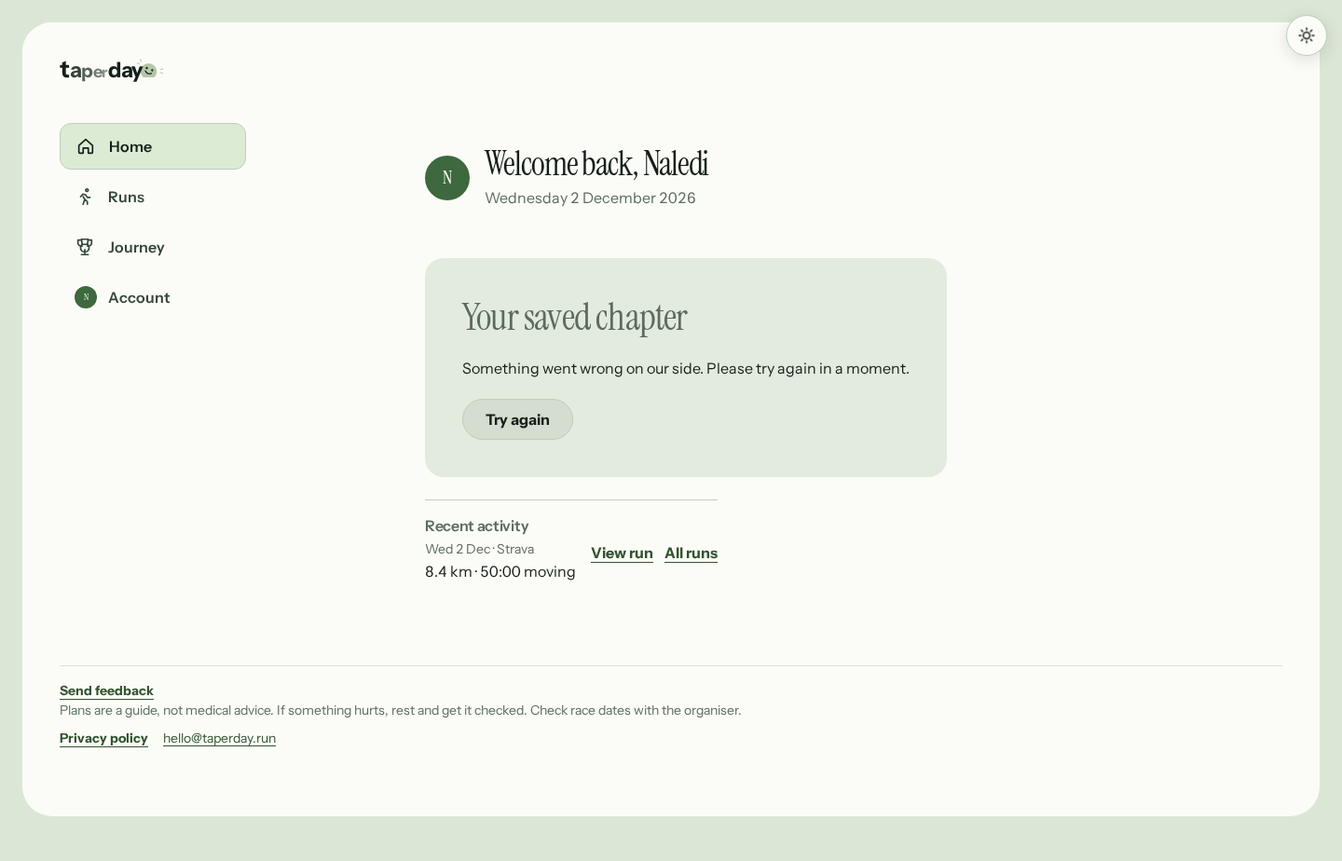
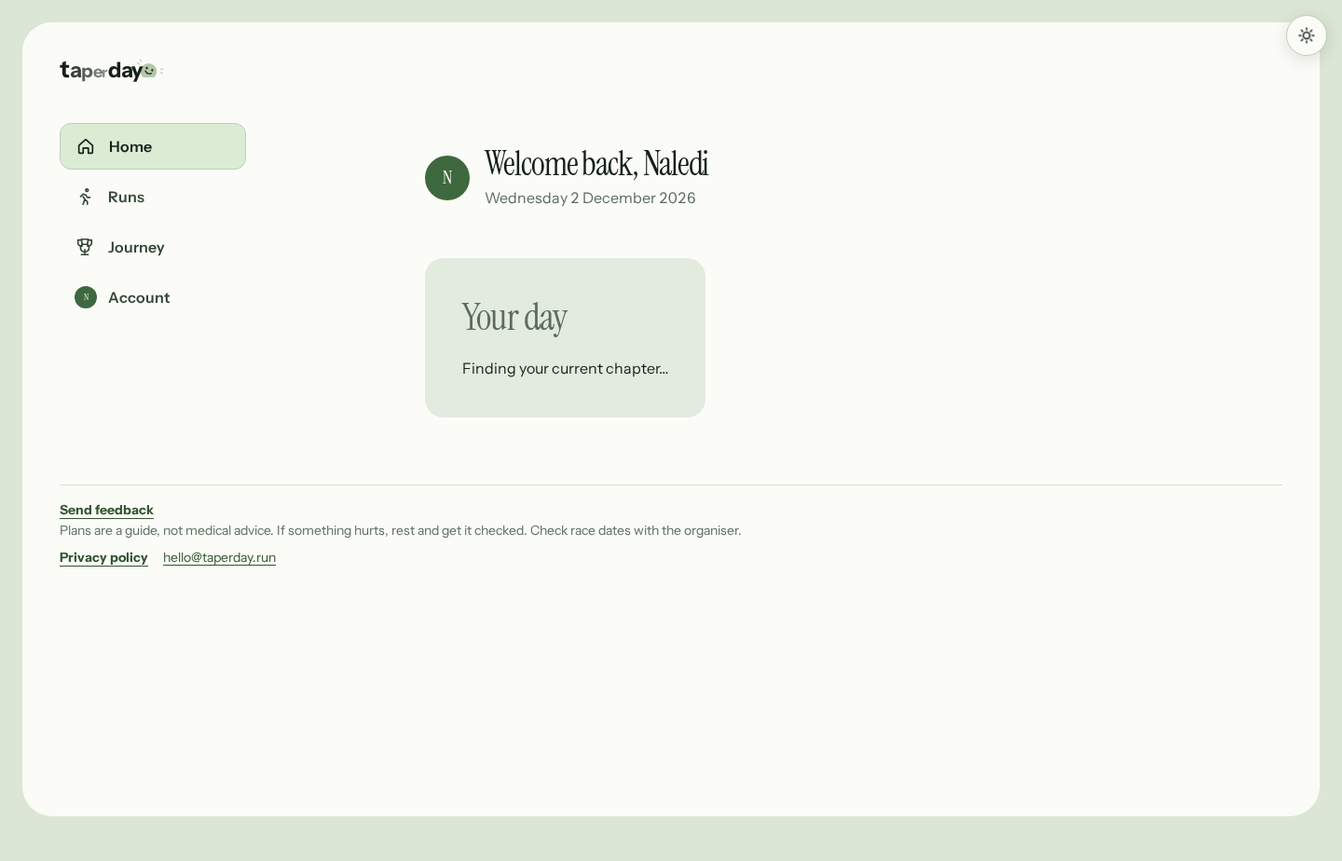
fix(ux): preserve plan lookup state and finish browser regression coverage

Changed region(s): [[0.3125, 0.2727, 0.7188, 0.5758], [0.0312, 0.5758, 0.5312, 0.6667], [0.0312, 0.7879, 0.5312, 0.8788]]

diff --git a/client/e2e/simplicity.spec.ts b/client/e2e/simplicity.spec.ts
@@ -1,4 +1,4 @@
-import AxeBuilder from '@axe-core/playwright'
+import { accessibility } from './accessibility'
 import { expect, test, type Page } from '@playwright/test'
 import { readFileSync, mkdirSync } from 'node:fs'
 import { fileURLToPath } from 'node:url'
@@ -46,7 +46,7 @@ async function mock(page: Page, scene: typeof scenes[number]) {
   return { writes, run }
 }
 
-for (const mode of ['light', 'dark'] as const) test(`Run detail hierarchy: ${mode} @phone`, async ({ page }) => {
+for (const mode of ['light', 'dark'] as const) test(`Run detail hierarchy: ${mode} @phone`, async ({ page }, info) => {
   await mock(page, 'synced')
   await page.goto(fixture.replace('?view=home', '?view=runs&run=simplicity-run'))
   await page.evaluate(value => { document.documentElement.dataset.theme = value }, mode)
@@ -54,14 +54,17 @@ for (const mode of ['light', 'dark'] as const) test(`Run detail hierarchy: ${mod
   await page.evaluate(() => document.fonts.ready)
   for (const width of [375, 1440]) {
     await page.setViewportSize({ width, height: 900 })
+    await page.evaluate(async () => { await Promise.all(document.getAnimations().filter(animation => animation instanceof CSSTransition).map(animation => animation.finished.catch(() => undefined))) })
     if (!baseline) {
-      const audit = await new AxeBuilder({ page }).withTags(['wcag2a', 'wcag2aa', 'wcag21a', 'wcag21aa', 'wcag22aa']).analyze()
+      const audit = await accessibility(page).analyze()
       expect(audit.violations.map(value => ({ id: value.id, targets: value.nodes.map(node => node.target) }))).toEqual([])
       expect(await page.evaluate(() => document.documentElement.scrollWidth - innerWidth)).toBeLessThanOrEqual(1)
       await expect(page.getByRole('heading', { name: 'Plan vs actual' })).toHaveCount(0)
     }
-    mkdirSync(root, { recursive: true })
-    await page.screenshot({ path: `${root}run-detail-${width}-${mode}.png`, fullPage: true, animations: 'disabled' })
+    if (info.project.name === 'desktop') {
+      mkdirSync(root, { recursive: true })
+      await page.screenshot({ path: `${root}run-detail-${width}-${mode}.png`, fullPage: true, animations: 'disabled' })
+    }
   }
 })
 
@@ -120,6 +123,24 @@ test('a missing recording ID is unavailable without substituting a recent record
   await expect(page.getByRole('button', { name: 'Open run details', exact: true })).toBeVisible()
 })
 
+for (const entry of ['Home link', 'fresh device'] as const) test(`failed current-plan lookup stays unknown and retries from ${entry} @phone`, async ({ page }) => {
+  await mock(page, 'training')
+  let failed = true
+  await page.route('**/api/v1/me/plans', async route => {
+    if (failed) await route.fulfill({ status: 503, json: { title: 'Temporarily unavailable' } })
+    else await route.fallback()
+  })
+  await page.goto(entry === 'Home link' ? fixture : fixture.replace('?view=home', ''))
+  await expect(page.getByRole('button', { name: 'Retry current plan', exact: true })).toBeVisible()
+  await expect(page.getByText('Finding your current chapter…', { exact: true })).toHaveCount(0)
+  await expect(page.getByRole('button', { name: 'Choose my next challenge', exact: true })).toHaveCount(0)
+  await expect(page.getByRole('navigation', { name: 'Main', exact: true }).getByRole('button', { name: 'Runs', exact: true })).toBeVisible()
+  failed = false
+  await page.getByRole('button', { name: 'Retry current plan', exact: true }).click()
+  await expect(page.getByRole('button', { name: "Open today's workout", exact: true })).toBeVisible()
+  await expect(page.getByRole('button', { name: 'Retry current plan', exact: true })).toHaveCount(0)
+})
+
 for (const mode of ['light', 'dark'] as const) {
   test(`Home remains usable with reduced motion, wide screens and 200% text: ${mode} @phone`, async ({ page }) => {
     await mock(page, 'training')
@@ -141,7 +162,7 @@ for (const mode of ['light', 'dark'] as const) {
   })
 }
 for (const scene of scenes) for (const mode of ['light', 'dark'] as const) {
-  test(`simple Home: ${scene}, ${mode} @phone`, async ({ page }) => {
+  test(`simple Home: ${scene}, ${mode} @phone`, async ({ page }, info) => {
     const state = await mock(page, scene)
     await page.addInitScript(value => { localStorage.setItem('taperday:theme', value); document.documentElement.dataset.theme = value }, mode)
     await page.goto(fixture)
@@ -166,14 +187,20 @@ for (const scene of scenes) for (const mode of ['light', 'dark'] as const) {
     }
     for (const width of [375, 1440]) {
       await page.setViewportSize({ width, height: 900 })
+      // Start each full audit at its final width in a fresh document; retain every WCAG rule.
+      await page.reload()
+      await expect(page.getByRole('heading', { name: 'Welcome back, Naledi' })).toBeVisible()
+      await page.evaluate(() => document.fonts.ready)
       await page.evaluate(async () => { await Promise.all(document.getAnimations().filter(animation => animation instanceof CSSTransition).map(animation => animation.finished.catch(() => undefined))); if (document.activeElement instanceof HTMLElement) document.activeElement.blur(); scrollTo(0, 0) })
       if (!baseline) {
         expect(await page.evaluate(() => document.documentElement.scrollWidth - innerWidth)).toBeLessThanOrEqual(1)
-        const audit = await new AxeBuilder({ page }).withTags(['wcag2a', 'wcag2aa', 'wcag21a', 'wcag21aa', 'wcag22aa']).analyze()
+        const audit = await accessibility(page).analyze()
         expect(audit.violations.map(value => ({ id: value.id, targets: value.nodes.map(node => node.target) }))).toEqual([])
       }
-      mkdirSync(root, { recursive: true })
-      await page.screenshot({ path: `${root}${scene}-${width}-${mode}.png`, fullPage: true })
+      if (info.project.name === 'desktop') {
+        mkdirSync(root, { recursive: true })
+        await page.screenshot({ path: `${root}${scene}-${width}-${mode}.png`, fullPage: true })
+      }
     }
     if (!baseline && scene === 'synced') {
       await page.getByRole('button', { name: 'Open run details', exact: true }).click()

diff --git a/client/src/features/runner-home/Home.tsx b/client/src/features/runner-home/Home.tsx
@@ -29,6 +29,7 @@ export interface HomeProps {
   onBuildPlan: () => void; onOpenBeginner?: () => void; onOpenRun: (id: string) => void
   onOpenRuns: () => void; onOpenAccount: () => void; initialPlan?: HomePlan | null
   onPlanLoaded?: (plan: HomePlan) => void; photo?: string | null; accountLoading?: boolean
+  currentPlanFailed?: boolean; onRetryCurrentPlan?: () => void
 }
 function detailFromUrl() {
   const params = new URLSearchParams(window.location.search)
@@ -74,12 +75,13 @@ export function Home(props: HomeProps) {
   const weekRuns = week?.sessions.filter(session => session.type !== 'Strength' && session.type !== 'Race') ?? []
   const doneRuns = weekRuns.filter(session => { const own = coach?.get(session); return own ? own.status !== 'Skipped' : syncedFor(session, coach)?.state === 'Completed' || !!recordingForToday(session, coach, available) }).length
   return <div className={`home home-simple${afterTraining ? ' is-after-training' : ''}`}>
-    <div hidden={details}>
+    {!details && <div>
       <header className="home-hello"><Avatar name={runner.displayName} photo={photo} size={48} /><div>
         <h1 ref={heading} tabIndex={-1} className="home-title">Welcome back, {runner.displayName}</h1><p className="home-lede">{formatDate(today, 'long')}</p>
       </div></header>
       <div className="home-panel home-focus" id="home-panel-today">
-        {!accountLoading && pending && <section className="panel home-card" role="status" aria-label="Loading your current chapter"><h2 className="home-card-heading">Your day</h2><p>Finding your current chapter…</p></section>}
+        {props.currentPlanFailed && <section className="home-data-state" role="alert"><h2 className="home-card-heading">Your current plan</h2><p>We couldn’t check your saved plan. Try again to pick up where you left off.</p><button type="button" className="button button-quiet" onClick={props.onRetryCurrentPlan}>Retry current plan</button></section>}
+        {!props.currentPlanFailed && !accountLoading && pending && <section className="panel home-card" role="status" aria-label="Loading your current chapter"><h2 className="home-card-heading">Your day</h2><p>Finding your current chapter…</p></section>}
         {!pending && journey.state.kind === 'error' && !current && <section className="panel home-card" role="alert"><h2 className="home-card-heading">Your saved chapter</h2><p>{journey.state.message}</p><button type="button" className="button" onClick={journey.actions.refresh}>Try again</button></section>}
         {current && (checkIns.failed || checkIns.offline || !!checkIns.pending?.length) && <CheckInLoadState {...checkIns} />}
         {current && failed && <div className="home-data-state" role="alert"><p>{plan ? 'Your plan couldn’t refresh. Showing the last plan loaded on this device.' : 'Your plan couldn’t load. You can try again.'}</p><button type="button" className="button" onClick={retry}>Retry plan</button></div>}
@@ -94,7 +96,7 @@ export function Home(props: HomeProps) {
         {!pending && <LatestRun runs={available} strava={strava} units={units} today={today} onOpenRun={onOpenRun} onOpenRuns={onOpenRuns} />}
         {!pending && strava?.status === 'NeedsReconnect' && <p className="field-help home-connection-note">Your Strava connection needs attention. <button type="button" className="link-button" onClick={props.onOpenAccount}>Reconnect Strava</button></p>}
       </div>
-    </div>
+    </div>}
     {visitedDetails && <div hidden={!details}><Suspense fallback={<p role="status">Loading your running details…</p>}><RunningDetails {...props} runs={available} onBack={closeDetails} backLabel={new URLSearchParams(window.location.search).get('from') === 'runs' ? '← Back to Runs' : '← Back to Home'} /></Suspense></div>}
   </div>
 }

diff --git a/client/src/features/runner-home/TodayFocus.tsx b/client/src/features/runner-home/TodayFocus.tsx
@@ -29,7 +29,7 @@ export function TodayFocus({ plan, failed, today, units, runs, coach, onOpenPlan
     {!plan ? failed ? <p>Today’s session will appear when your plan loads.</p> : <div className="skeleton-stack" role="status" aria-label="Loading today's session"><span className="skeleton-line skeleton-line-wide" /><span className="skeleton-line" /></div>
       : progress?.kind === 'before' ? <p>Your plan starts {formatDate(plan.startDate, 'long')}. Easy running until then.</p>
       : progress?.kind === 'race' ? <p className="home-today-title">{plan.race.name}. Start easy, trust your training and enjoy it.</p>
-      : own && own.status !== 'Skipped' ? <><RunResult entry={own} runs={runs} units={units} compact /><p className="field-help">Planned: {session!.distanceKm > 0 ? formatDistance(session!.distanceKm, units) : session!.title}</p></>
+      : own && own.status !== 'Skipped' ? <><RunResult entry={own} runs={runs} units={units} compact /><p className="home-recorded-source">{own.distanceKm != null || own.duration ? 'Manually logged' : recording ? `${recording.source.kind === 'Strava' ? 'Strava' : 'Upload'} · moving time` : own.activityId ? 'Linked recording is no longer available.' : 'Confirmed without recorded measurements'}</p></>
       : recording ? <><p className="home-recorded-source">{recording.source.kind === 'Strava' ? 'Imported from Strava' : 'From your upload'}</p><p className="field-help">{formatDuration(recording.movingSeconds)} moving{recording.distanceKm > 0 && recording.movingSeconds > 0 ? ` · ${formatPace(recording.movingSeconds / recording.distanceKm, units)}` : ''}</p></>
       : day?.runs.length ? day.runs.map((value, index) => {
         const pace = plan.paces.find(pace => pace.zone === value.zone)
@@ -37,6 +37,7 @@ export function TodayFocus({ plan, failed, today, units, runs, coach, onOpenPlan
         return <div key={`${value.date}|${value.type}`}><p className="home-today-title">{index > 0 && value.title}{own && <span className={own.status === 'Done' ? 'chip home-done-chip' : 'chip home-status-chip'}>{own.status === 'Done' ? 'Done' : own.status === 'Skipped' ? 'Skipped' : 'Logged'}</span>}</p>
           <dl className="home-workout-facts">{value.distanceKm > 0 && <div><dt>Distance</dt><dd className="mono">{formatDistance(value.distanceKm, units)}</dd></div>}{pace && <div><dt>Target pace</dt><dd className="mono">{formatPaceRange(pace.fastestSecondsPerKm, pace.slowestSecondsPerKm, units)}</dd></div>}</dl><p className="field-help">{value.detail}</p></div>
       }) : <><p>{day?.strength.length ? 'Your running takes a break. Your strength session is below.' : 'Legs up. Rest is when the training turns into fitness.'}</p>{day?.next && <p className="field-help">Next: {day.next.title}, {formatDate(day.next.date)}</p>}</>}
+    {session && (recording || own && own.status !== 'Skipped') && <p className="field-help">Planned: {session.title}{session.distanceKm > 0 ? ` · ${formatDistance(session.distanceKm, units)}` : ''}</p>}
     {day?.strength.map(value => <section key={value.type} className="home-today-strength" aria-label="Strength session"><p className="home-today-title">{value.title}</p><p className="field-help">{value.exercises.length} exercises · Open your plan for set tracking.</p></section>)}
     {progress && progress.daysToGo > 0 && progress.daysToGo <= 7 && <p className="field-help">{progress.daysToGo} days to {plan!.race.name}</p>}
     {progress && progress.daysToGo > 0 && progress.daysToGo <= 7 && onOpenRacePrep && <button type="button" className="link-button" onClick={onOpenRacePrep}>Race-day checklist and pacing</button>}

diff --git a/client/src/features/account/useCurrentPlan.test.ts b/client/src/features/account/useCurrentPlan.test.ts
@@ -1,6 +1,11 @@
-import { describe, expect, it } from 'vitest'
+import { createElement, type PropsWithChildren } from 'react'
+import { act, renderHook, waitFor } from '@testing-library/react'
+import { http, HttpResponse } from 'msw'
+import { beforeEach, describe, expect, it } from 'vitest'
+import { accountsOff, AuthContext } from '../../app/auth-context'
+import { planFixture, server } from '../../test/server'
 import { toRequest, type PlanInputs } from '../../lib/plan-url'
-import { samePlan } from './useCurrentPlan'
+import { samePlan, useCurrentPlan } from './useCurrentPlan'
 
 const inputs: PlanInputs = {
   raceName: 'Parkrun PB',
@@ -34,5 +39,38 @@ describe('the same plan', () => {
     expect(samePlan(toRequest({ ...inputs, raceName: undefined }), toRequest({ ...inputs, raceName: 'Your race' }))).toBe(true)
     const catalogue = toRequest({ ...inputs, raceSlug: 'comrades-2027' })
     expect(samePlan(catalogue, { ...catalogue, raceName: 'Comrades Marathon', raceDate: '2027-06-13', distanceKm: 90 })).toBe(true)
+  })
+})
+
+const auth = { ...accountsOff, enabled: true, account: { name: 'Synthetic runner', email: 'current-plan@example.test' }, getToken: async () => 'test-token' }
+const wrapper = ({ children }: PropsWithChildren) => createElement(AuthContext.Provider, { value: auth }, children)
+
+describe('current plan lookup failures', () => {
+  beforeEach(() => server.use(http.get('*/api/v1/me/plans/plan-1', () => HttpResponse.json({ id: 'plan-1', name: 'Parkrun PB', status: 'Active', inputs: toRequest(inputs), plan: planFixture }))))
+  it('keeps a failed initial lookup unknown and recovers the saved plan on retry', async () => {
+    let failed = true
+    server.use(http.get('*/api/v1/me/plans', () => failed
+      ? HttpResponse.json({ title: 'Temporarily unavailable' }, { status: 503 })
+      : HttpResponse.json([{ id: 'plan-1', status: 'Active', raceDate: inputs.raceDate }])))
+    const { result } = renderHook(() => useCurrentPlan(true, '2026-10-20'), { wrapper })
+    await waitFor(() => expect(result.current.failed).toBe(true))
+    expect(result.current.current).toBeUndefined()
+    failed = false
+    await act(() => result.current.refresh())
+    expect(result.current.current?.id).toBe('plan-1')
+    expect(result.current.failed).toBe(false)
+  })
+
+  it('retains a known plan when a later lookup fails', async () => {
+    let failed = false
+    server.use(http.get('*/api/v1/me/plans', () => failed
+      ? HttpResponse.json({ title: 'Temporarily unavailable' }, { status: 503 })
+      : HttpResponse.json([{ id: 'plan-1', status: 'Active', raceDate: inputs.raceDate }])))
+    const { result } = renderHook(() => useCurrentPlan(true, '2026-10-20'), { wrapper })
+    await waitFor(() => expect(result.current.current?.id).toBe('plan-1'))
+    failed = true
+    await act(() => result.current.refresh())
+    expect(result.current.failed).toBe(true)
+    expect(result.current.current?.id).toBe('plan-1')
   })
 })

diff --git a/client/src/features/account/useCurrentPlan.ts b/client/src/features/account/useCurrentPlan.ts
@@ -57,12 +57,16 @@ async function fetchCurrent(getToken: () => Promise<string | null>, today: strin
 export function useCurrentPlan(enabled: boolean, today = localToday()) {
   const auth = useAuth()
   const [loaded, setCurrent] = useState<{ owner: typeof auth; value: CurrentPlan | null | undefined }>({ owner: auth, value: undefined })
+  const [failure, setFailure] = useState<typeof auth | null>(null)
   const current = loaded.owner === auth ? loaded.value : undefined
   const sequence = useRef(0)
 
   const load = useCallback(() => {
     const mine = ++sequence.current
-    return fetchCurrent(auth.getToken, today).then(value => { if (mine === sequence.current) setCurrent({ owner: auth, value }) })
+    return fetchCurrent(auth.getToken, today).then(value => {
+      if (value === undefined) throw new Error('Your current plan could not be checked. Try again.')
+      if (mine === sequence.current) { setCurrent({ owner: auth, value }); setFailure(null) }
+    }).catch(error => { if (mine === sequence.current) setFailure(auth); throw error })
   }, [auth, today])
 
   useEffect(() => {
@@ -70,10 +74,13 @@ export function useCurrentPlan(enabled: boolean, today = localToday()) {
     let cancelled = false
     const requests = sequence
     const mine = ++sequence.current
-    // If it can't load, the app carries on without it: the builder shows, and saving still asks the API, which knows.
+    // A failed lookup is unknown, never evidence that the runner has no saved plan.
     fetchCurrent(auth.getToken, today)
-      .then((found) => { if (!cancelled && mine === sequence.current) setCurrent({ owner: auth, value: found ?? null }) })
-      .catch(() => { if (!cancelled && mine === sequence.current) setCurrent({ owner: auth, value: null }) })
+      .then((found) => {
+        if (found === undefined) throw new Error('Your current plan could not be checked. Try again.')
+        if (!cancelled && mine === sequence.current) { setCurrent({ owner: auth, value: found }); setFailure(null) }
+      })
+      .catch(() => { if (!cancelled && mine === sequence.current) setFailure(auth) })
     return () => {
       cancelled = true
       requests.current++
@@ -86,5 +93,5 @@ export function useCurrentPlan(enabled: boolean, today = localToday()) {
     return () => window.removeEventListener(JOURNEY_CHANGED, refresh)
   }, [enabled, load])
 
-  return { current: enabled ? currentTraining(current, today) : undefined, remember: (saved: CurrentPlan) => { sequence.current++; setCurrent({ owner: auth, value: saved }) }, refresh: () => load().catch(() => undefined) }
+  return { current: enabled ? currentTraining(current, today) : undefined, failed: enabled && failure === auth, remember: (saved: CurrentPlan) => { sequence.current++; setCurrent({ owner: auth, value: saved }); setFailure(null) }, refresh: () => load().catch(() => undefined) }
 }

diff --git a/client/src/app/App.tsx b/client/src/app/App.tsx
@@ -417,7 +417,7 @@ export function App() {
   // Completing Microsoft sign-in must not strand returning runners on the sign-in URL.
   // Wait for the saved-plan lookup; only then decide between their plan and Home.
   useEffect(() => {
-    if (view !== 'sign-in' || runner.state.kind !== 'ready' || latestPlan === undefined) return
+    if (view !== 'sign-in' || runner.state.kind !== 'ready' || latestPlan === undefined && !currentPlan.failed) return
     if (latestPlan) {
       landing.current = false
       setLanded(true)
@@ -427,9 +427,9 @@ export function App() {
       setView('home')
       window.history.replaceState(null, '', '?view=home')
     }
-  }, [view, runner.state.kind, latestPlan])
+  }, [view, runner.state.kind, latestPlan, currentPlan.failed])
   useEffect(() => {
-    if (landing.current || !(found || knownHere || returningAfterPlan) || initial || view !== 'build' || plan.kind !== 'idle' || editing) return
+    if (landing.current || !(found || knownHere || returningAfterPlan || currentPlan.failed) || initial || view !== 'build' || plan.kind !== 'idle' || editing) return
     landing.current = true
     // A runner coming back with their plan kept on this device opens straight on it, as opening it from Home would show
     // it, while the account loads. Only before this visit has found their plan: after that, Home opens it for real.
@@ -462,7 +462,7 @@ export function App() {
     })
     // build is a fresh function each render; what it does doesn't change.
     // eslint-disable-next-line react-hooks/exhaustive-deps
-  }, [found, knownHere, returningAfterPlan, initial, view, plan.kind, editing, copy, latestPlan])
+  }, [found, knownHere, returningAfterPlan, initial, view, plan.kind, editing, copy, latestPlan, currentPlan.failed])
 
   // Once the account says which plan is current, the copy gives way to it, as opening the plan from Home would: the same
   // plan is brought up to date by the coach (above), a plan changed on another device is built afresh, and a plan deleted
@@ -977,6 +977,8 @@ export function App() {
             units={units}
             today={today}
             current={ownPlan}
+            currentPlanFailed={currentPlan.failed}
+            onRetryCurrentPlan={() => void currentPlan.refresh()}
             journey={journey}
             runs={runs ?? copy?.runs}
             bests={synced.bests ?? copy?.bests}

diff --git a/client/e2e/offline-check-ins.spec.ts b/client/e2e/offline-check-ins.spec.ts
@@ -1,4 +1,4 @@
-import AxeBuilder from '@axe-core/playwright'
+import { accessibility } from './accessibility'
 import { expect, test, type Page } from '@playwright/test'
 import { readFileSync } from 'node:fs'
 import type { CheckIn, CheckInRequest } from '../src/lib/types'
@@ -42,6 +42,7 @@ for (const mode of ['light', 'dark'] as const) {
       } else if (path.endsWith('/running')) data = entries.map(entry => ({ date: entry.date, distanceKm: entry.distanceKm, source: 'Ticked' }))
       await route.fulfill({ json: data })
     })
+    await page.setViewportSize({ width: 375, height: 900 })
     await page.goto(fixture)
     await page.evaluate(value => { document.documentElement.dataset.theme = value }, mode)
     await page.getByRole('button', { name: 'Visit calendar', exact: true }).click()
@@ -74,10 +75,19 @@ for (const mode of ['light', 'dark'] as const) {
     await expect(entry).toContainText('8 km · 42:00')
     await status.getByRole('button', { name: 'Review device drafts' }).click()
     await expect(status).toContainText('Device draft: Done · 8 km · 00:42:00')
+    // Audit the actual Home alert after leaving the deliberately opened running history.
+    await page.getByRole('button', { name: '← Back to Home', exact: true }).click()
+    await page.reload()
+    await page.evaluate(value => { document.documentElement.dataset.theme = value }, mode)
+    await expect(page.getByRole('region', { name: 'Today', exact: true })).toBeVisible()
+    await status.getByRole('button', { name: 'Review device drafts' }).click()
+    await expect(status).toContainText('Device draft: Done · 8 km · 00:42:00')
     expect(await page.evaluate(() => document.documentElement.scrollWidth - innerWidth)).toBeLessThanOrEqual(1)
-    const accessibility = await new AxeBuilder({ page }).include('.callout').withTags(['wcag2a', 'wcag2aa', 'wcag21aa', 'wcag22aa']).analyze()
-    expect(accessibility.violations).toEqual([])
+    const audit = await accessibility(page).analyze()
+    expect(audit.violations).toEqual([])
     await status.screenshot({ path: info.outputPath(`offline-run-${mode}.png`) })
+    await openRecentRun(page, '2026-10-14')
+    await expect(entry).toContainText('8 km · 42:00')
     accountConnected = true
     await connection(page, true)
     await expect(status).toHaveCount(0)

diff --git a/client/e2e/strava-completion.spec.ts b/client/e2e/strava-completion.spec.ts
@@ -47,8 +47,11 @@ test('a held Strava run completes today’s session, fits small phones, lapses, 
   await page.goto('http://127.0.0.1:5176/e2e/fixtures/run-history.html?date=2026-10-18&km=4.1')
 
   const today = page.getByRole('region', { name: 'Today', exact: true })
+  await expect(today.getByText('Imported from Strava', { exact: true })).toBeVisible()
+  await expect(today.getByRole('button', { name: 'Open run details', exact: true })).toBeVisible()
+  await expect(today.getByRole('button', { name: 'Keep this tick', exact: true })).toHaveCount(0)
+  await today.getByRole('button', { name: 'Log a run manually', exact: true }).click()
   await expect(today.getByText('Completed via Strava', { exact: true })).toBeVisible()
-  await expect(today.locator('.home-status-chip')).toContainText('Recorded via Strava · provisional')
   await expect(today.locator('.home-done-chip')).toHaveCount(0)
   await expect(today.locator('.strava-completion-figures')).toHaveText('Planned 6 km · Ran 4.1 km')
   await expect(today.getByText(/You got out there — that counts\. You ran 4\.1 km of your planned 6 km today\./)).toBeVisible()
@@ -85,6 +88,8 @@ test('a held Strava run completes today’s session, fits small phones, lapses, 
   // Fetched again on the next visit; the runner keeps the tick, which outlasts the copy.
   state.held = true
   await page.reload()
+  await expect(today.getByText('Imported from Strava', { exact: true })).toBeVisible()
+  await today.getByRole('button', { name: 'Log a run manually', exact: true }).click()
   await expect(today.getByText('Completed via Strava', { exact: true })).toBeVisible()
   await today.getByRole('button', { name: 'Keep this tick', exact: true }).click()
   await expect(today.getByRole('button', { name: 'Change how Long run went', exact: true })).toBeVisible()

diff --git a/client/src/features/runner-home/today-recording.test.ts b/client/src/features/runner-home/today-recording.test.ts
@@ -15,6 +15,7 @@ describe('today’s recording identity', () => {
   it('uses a server-confirmed Strava association without saving a check-in', () => expect(recordingForToday(session, coach(undefined, 'a'), [recording('a', 'Strava')], now)?.id).toBe('a'))
   it('does not match an unassociated Strava run', () => expect(recordingForToday(session, coach(), [recording('a', 'Strava')], now)).toBeNull())
   it('retains the runner’s skip over a provider match', () => expect(recordingForToday(session, coach({ status: 'Skipped' }, 'a'), [recording('a', 'Strava')], now)).toBeNull())
+  it('does not attach a recording to a manually confirmed run without an explicit link', () => expect(recordingForToday(session, coach({ status: 'Done', distanceKm: 6 }), [recording('a')], now)).toBeNull())
   it('does not present an expired Strava recording as current', () => expect(recordingForToday(session, coach(undefined, 'a'), [recording('a', 'Strava')], Date.parse('2026-10-22T00:00:00Z'))).toBeNull())
   it('excludes additional runs from prescribed-session matching', () => expect(recordingForToday(session, coach(undefined, undefined, [{ isAdditional: true, activityId: 'a' }]), [recording('a')], now)).toBeNull())
   it('excludes non-running recordings', () => expect(recordingForToday(session, coach(), [{ ...recording('a'), kind: 'Other' }], now)).toBeNull())

diff --git a/client/e2e/run-history.spec.ts b/client/e2e/run-history.spec.ts
@@ -39,7 +39,7 @@ for (const [kind, date] of [['rest', '2026-10-14'], ['strength', '2026-10-12'], 
     const name = `Additional run on ${formatDate(date!, 'long')}`
     await openRecentRun(page, date!)
     await expect(running.getByRole('article', { name, exact: true })).toContainText('10 km · 1:00:00')
-    await expect(page.locator('.home-week-body .home-tile-value')).toHaveText('10 km')
+    await expect(running.locator('.home-tiles .home-tile').filter({ hasText: 'This month' }).locator('.home-tile-value .mono')).toHaveText('10')
     expect(entries).toHaveLength(1)
     expect(entries[0]?.activityId).toBe('synthetic-strava')
     await page.getByRole('button', { name: 'Visit calendar', exact: true }).click()

diff --git a/client/e2e/journey-fallback.spec.ts b/client/e2e/journey-fallback.spec.ts
@@ -17,7 +17,8 @@ test('a malformed Journey reply leaves Home, existing workouts and calendar usab
   })
   await page.goto('/e2e/fixtures/run-history.html?date=2026-10-14')
   await expect(page.getByRole('button', { name: 'Visit calendar' })).toBeVisible()
-  await expect(page.getByRole('heading', { name: 'Today', exact: true })).toBeVisible()
+  await expect(page.getByRole('region', { name: 'Today', exact: true })).toBeVisible()
+  await expect(page.getByRole('button', { name: 'Open your plan', exact: true })).toBeVisible()
   await page.getByRole('button', { name: 'Visit calendar' }).click()
   await expect(page.getByRole('tab', { name: 'This week', exact: true })).toBeVisible()
   expect(pageErrors).toEqual([])

diff --git a/client/e2e/training-recovery.spec.ts b/client/e2e/training-recovery.spec.ts
@@ -310,7 +310,8 @@ test('Home stays simple after recovery and months later, with running details av
     await page.evaluate(() => { document.documentElement.dataset.theme = 'dark' })
     await page.screenshot({ path: `${homeQa}/saved-history-375-dark.png`, fullPage: true })
   }
-  await page.getByRole('button', { name: 'View my journey', exact: true }).click()
+  await page.getByRole('navigation', { name: 'Main', exact: true }).getByRole('button', { name: 'Journey', exact: true }).click()
+  await page.getByRole('button', { name: 'View chapter', exact: true }).click()
   await expect(page.getByRole('heading', { name: 'Finished in 2:06:15', exact: true })).toBeVisible()
 })
 
